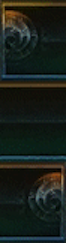
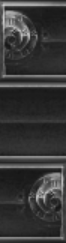
Update foil image to official site asset

diff --git a/src/app/item-renderer/item-renderer.component.scss b/src/app/item-renderer/item-renderer.component.scss
@@ -68,12 +68,12 @@
         background-size: auto 300%;
     }
     .left .influence-symbol {
-        left: 0;
+        left: 3px;
     }
     .right {
         margin-left: auto;
         .influence-symbol {
-           right: 0;
+           right: 3px;
         }
     }
     &.double, &.thicksingle {
